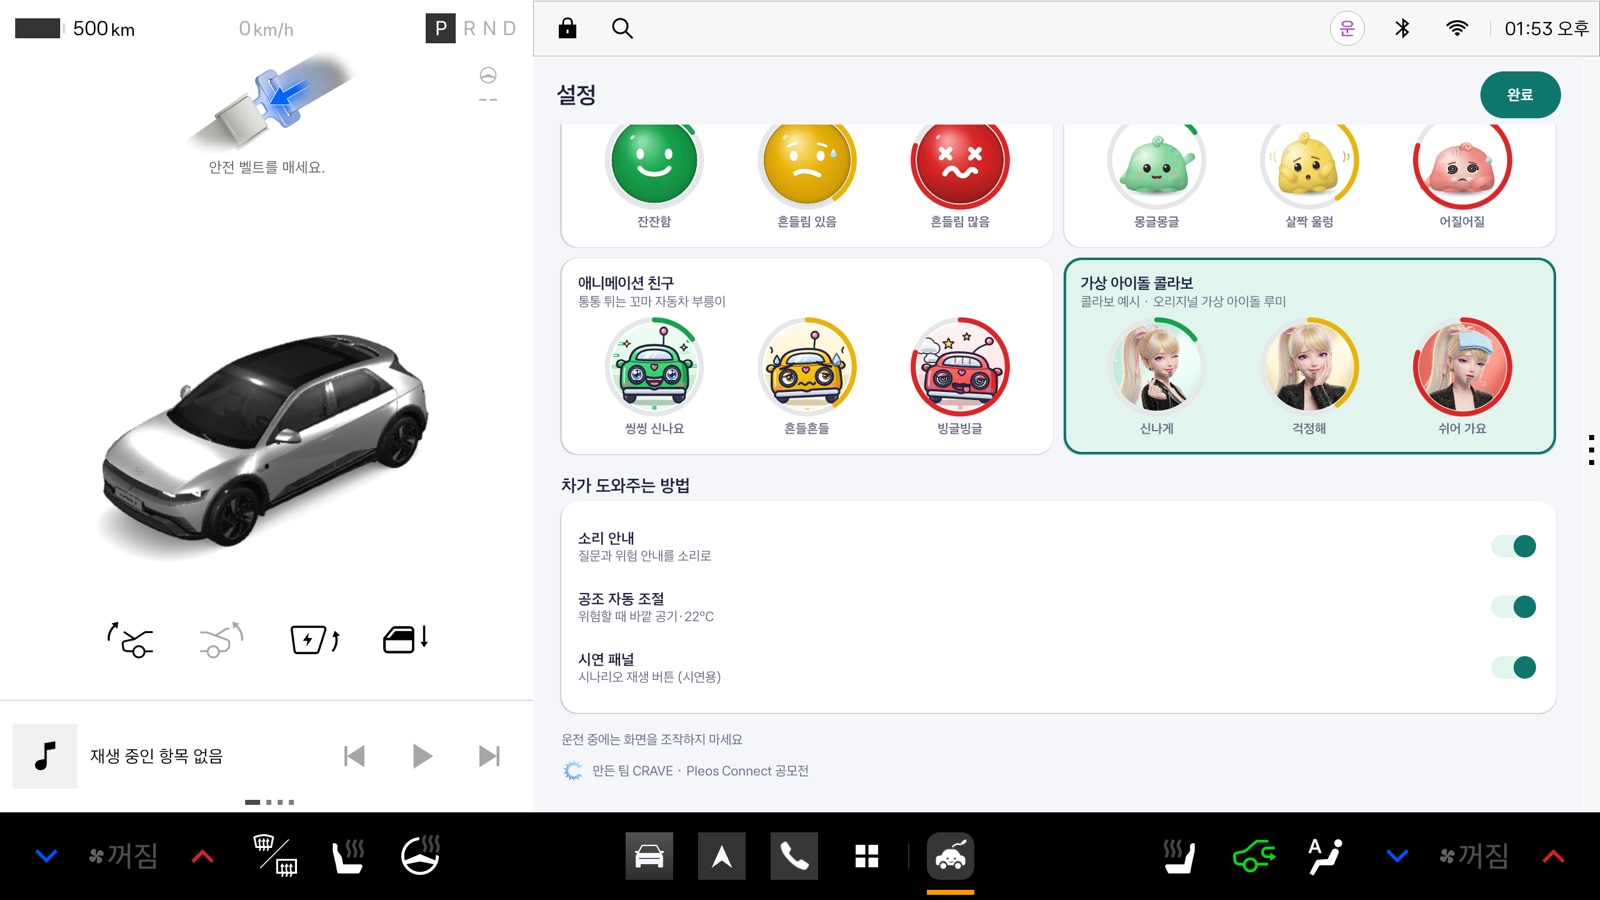
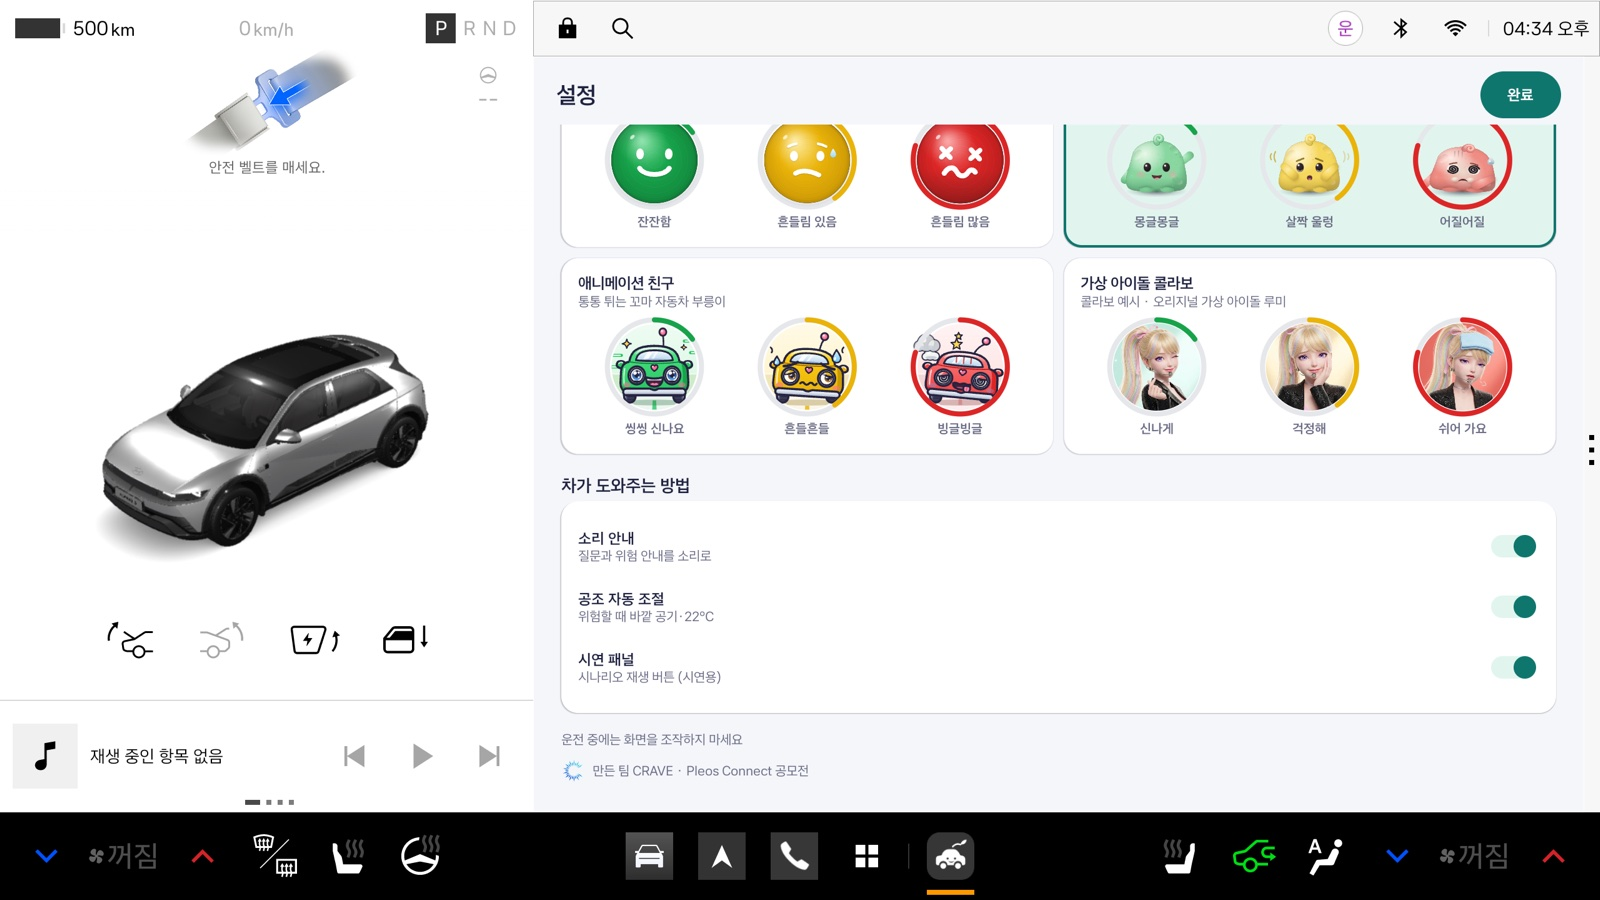
문서를 새 필름·현재 앱 기준으로 정리 · 설정 캡처를 몽글이로
- submission.md: release APK 11.8 재빌드·서명 확인 반영, 시연 영상 → 필름(무음판·음성판), demo.webp 행 추가, 제출 체크리스트(APK 점검·필름 첨부·11.15 마감), APK는 저장소에 올리지 않고 이메일 첨부
- demo-script.md: 옛 v1/v2 영상과 출시 안 된 기능(회전 예고·가족 모드 등)을 확장으로 정리, 필름 장면 순서·음성 문구, 링 색 = 표정
- ui_r6_settings(+callouts): 말랑 3D 친구(몽글이) 선택 화면으로 다시 찍음 (release APK 새로 설치한 첫 실행)

diff --git a/docs/demo-script.md b/docs/demo-script.md
@@ -1,12 +1,16 @@
 # 시연 영상 콘티 v3 (72초, 에뮬레이터 화면 녹화)
 
-> **v3 (11.3, 다음 촬영)**: 팀장 회의 반영 화면 기준 (탭 두 개 · 멀미 완화 버튼 · 색 통일). 회전 예고와 가족 모드는 화면에서 숨겨 장면에서 뺌. 11.4 팀 회의 2: 캐릭터 둘레 링, 휴게소 질문 없음(확장 기능), 지나온 길 안 그림. 아래 "준비"와 "장면".
+> **v3 (11.3, 선택 촬영)**: 팀장 회의 반영 화면 기준 (탭 두 개 · 멀미 완화 버튼 · 색 통일). 회전 예고와 가족 모드는 화면에서 숨겨 장면에서 뺌. 11.4 팀 회의 2: 캐릭터 둘레 링, 휴게소 질문 없음(확장 기능), 지나온 길 안 그림. 아래 "준비"와 "장면".
 >
-> **v2 (11.2 저녁, 제출용)**: 72초, 자막 포함, 소리 없음. 저장소 밖 `../멀미케어_시연_v2.mp4`. 장면: 첫 실행 테마 선택 → 뒷좌석 감지 → 루미 음성 예고·무드등 → 공조 26.5°C·내기 → 22°C·외기 → 가족 모드 위험 → 정차 후 질문 → 설정.
+> **11.8 화면 변경**: 링 색은 캐릭터 표정(Mood)과 같은 색, 링 길이는 멀미 가능성. 루미(가상 아이돌) 표정 그림 3장 새로 그림. 아래 장면은 이 화면 기준.
 >
-> **v1 (11.2)**: 52초, 자막 포함, 소리 없음. 저장소 밖 `../멀미케어_시연_v1.mp4`. 장면: 뒷좌석 감지 → 회전 예고·무드등 → 공조 26.5°C·내기 → 22°C·외기 → 가족 모드 → 정차 후 질문. 다음 판에서는 내레이션과 앱 음성(호스트에서 녹음)을 입힙니다.
+> **옛 v1 · v2 (11.2, `../멀미케어_시연_v1.mp4` · `v2.mp4`)**: 회전 예고 · 무드등 · 가족 모드 · 정차 후 질문이 나오는 옛 화면이라 쓰지 않음. 이 기능들은 지금 앱에 없음(`android/app/.../later/`, 확장).
 
-> **영상 자리 (예정): AI · Blender 시연 영상**: 실사 느낌의 뒷좌석 장면(AI 영상 생성 또는 Blender 렌더)을 따로 만들 자리. 정해지면 여기에 파일 위치 · 길이 · 쓰는 장면(예: 오프닝 질문, 숏폼)을 적음. README에는 아직 넣지 않음.
+> **필름 (11.8, 제출용)**: 25초, 소리 없음(음성 문구는 자막). 저장소 밖 `../ai_video/explainer/멀미케어_필름_v3.mp4` (음성판 `멀미케어_필름_v3_음성.mp4`: 앱 음성 문구 3개를 macOS Yuna 음성으로, 도로 소리), README 맨 위 `docs/img/explainer.webp`. 가족이 차 안에서 겪는 순서: 굽은 산길 → 뒷좌석 아이 "속이 울렁거려…" → 센터 화면에 몽글이(말랑 3D 친구)와 "브레이크 부드럽게" 알림, 음성 "뒷좌석이 흔들려요. 브레이크를 부드럽게 밟아 주세요." → 운전자가 브레이크를 부드럽게 → 송풍구 "바깥 공기로 바꾸고 온도를 조금 낮출게요." → "그래도 어지러워…" → 멀미 완화 버튼 → "창문 열고 바람 넣을게요. 먼 곳을 보세요." → 창문 바람, "이제 좀 살 것 같아" → 멀미 케어 끝 화면. 센터 화면 속 앱은 Pleos 에뮬레이터 실제 녹화를 합성, 차 안 · 도로 장면은 AI 생성(Higgsfield · Kling 2.5 Turbo).
+>
+> **짧은 실제 화면 (`docs/img/demo.webp`)**: 에뮬레이터에서 `B_winding_rough`를 2배속으로 재생, 몽글이 테마, 링 노랑 → 빨강 → 멀미 완화. 아래 "멀미 완화" 장면과 같은 재생 옵션에 `--es theme clay`.
+
+아래 72초 콘티는 필름 다음에 쓸 에뮬레이터 전체 녹화(선택)입니다.
 
 목표: "폰으로는 못 하는 장면" 3개를 보여 준다. ① 흔들림이 쌓이면 실내 공기를 차가 바꿈 ② 멀미 완화 버튼 하나로 창문 · 바람 · 음성 · 내 기준 기록 ③ 내비 옆 한 화면으로 함께 쓰기.
 
@@ -25,6 +29,7 @@ adb forward tcp:8088 tcp:8088
 - Virtual Console: http://127.0.0.1:8088/
   - 시작 값: Target Temperature 26°C, Air Recirculation = Recirculate (덥고 탁한 실내)
 - 앱 설치: `cd android && ./gradlew :app:installDebug` (디버그 빌드라야 아래 재생 옵션이 동작)
+- 테마: 필름 · `demo.webp`와 맞추려면 몽글이(말랑 3D 친구). 재생 명령에 `--es theme clay`를 붙이거나 설정에서 고름
 - Virtual Console 공조 전원 켬 (꺼져 있으면 공기 장면에서 공조가 안 바뀜)
 - 앱 소리: 에뮬레이터 화면 녹화에는 소리가 안 담김 → 호스트(Mac)에서 시스템 소리를 함께 녹음
 - 장면마다 원하는 순간으로 바로 가기 (디버그 재생 옵션, 모두 `--user 10`)
@@ -52,12 +57,12 @@ adb shell am start --user 10 -n ai.motioncare.app/.MainActivity --ez skip_welcom
 | 시간 | 화면 | 내레이션/자막 |
 |---|---|---|
 | 0–6초 | 검은 화면에 질문 | "뒷좌석은 왜 더 멀미가 날까?" → "다음 움직임을 모르고, 덥고 답답하기 때문입니다." |
-| 6–18초 | 지도 탭(첫 화면): 굽은 길 · 거칠게, 캐릭터 둘레 링이 차오르며 초록 → 노랑 | 자막: 링 = 멀미 가능성 (초록 · 노랑 · 빨강) |
-| 18–30초 | 공조: 아래 공조 바 26°C · 내기 → 22°C · 외기 | "바깥 공기로 바꾸고 온도를 조금 낮출게요." 자막: 실내 공기를 차가 바꿈 |
+| 6–18초 | 지도 탭(첫 화면): 굽은 길 · 거칠게, 캐릭터 둘레 링이 차오르며 초록 → 노랑 | 자막: 링 길이 = 멀미 가능성, 링 색 = 표정 (초록 · 노랑 · 빨강) |
+| 18–30초 | "브레이크 부드럽게" 알림 → 공조: 아래 공조 바 26°C · 내기 → 22°C · 외기 | "뒷좌석이 흔들려요. 브레이크를 부드럽게 밟아 주세요." → "바깥 공기로 바꾸고 온도를 조금 낮출게요." 자막: 실내 공기를 차가 바꿈 |
 | 30–44초 | "멀미 완화" 한 번: "창문 열고 바람 넣었어요" → 음성 "창문 열고 바람 넣을게요. 먼 곳을 보세요." | 자막: 버튼 하나로 창문 · 바람 · 음성 |
 | 44–54초 | 분석 탭: 게이지, 완화 버튼 1 · 공기 바꿈 1 타일, 흔들림 지수 ↔ 멀미 가능성 토글 | 자막: 누른 순간이 내 기준이 됩니다 |
 | 54–64초 | Pleos 화면 나누기 손잡이: 왼쪽 표정 카드 + "멀미 가능성 N%" 알약 + 멀미 완화 버튼, 오른쪽 Pleos 내비 | 자막: 내비 옆에는 표정과 %만 |
-| 64–72초 | 구조도 한 장 (`docs/img/sdk_map.svg`) | 자막: Pleos Vehicle (HVAC · Window · SteeringWheel) · NaviHelper · TTS · STT |
+| 64–72초 | 구조도 한 장 (`docs/img/sdk_map.svg`) | 자막: Pleos Vehicle (HVAC · Window · SteeringWheel) · NaviHelper · TTS (STT는 확장) |
 
 - 창문: 에뮬레이터에서는 명령은 수락되지만 Virtual Console에서 창문이 움직이지 않음 → 화면의 안내 알약과 로그의 창문 위치 응답(2)으로 보여 줌
 - 화면 나누기: `adb shell input swipe 2545 717 1700 717 1500`, 되돌리기 `adb shell input swipe 1705 717 2545 717 1500`
@@ -65,6 +70,6 @@ adb shell am start --user 10 -n ai.motioncare.app/.MainActivity --ez skip_welcom
 
 ## 숏폼(선택, 30초)
 
-"뒷좌석 아이가 멀미하는 순간" 실사 한 컷 → "멀미 완화"를 누르자 창문이 조금 열리고 바람이 바뀌는 장면 → "#HMG차량용앱개발공모전". 차량 내외부 이미지 노출은 최소화.
+필름(`../ai_video/explainer/멀미케어_필름_v3.mp4`, 25초)을 그대로 쓰거나 줄여서: "뒷좌석 아이가 멀미하는 순간" → "멀미 완화"를 누르자 창문이 조금 열리고 바람이 바뀌는 장면 → "#HMG차량용앱개발공모전". 차량 내외부 이미지 노출은 최소화.
 
 - 해시태그: 공모전 공식 이름은 "현대자동차그룹 차량용 앱 개발 공모전", 숏폼 안내의 필수 해시태그는 `#HMG차량용앱개발공모전` (10.28 설명회 정리 기준, 접수 전 공지 다시 확인)
